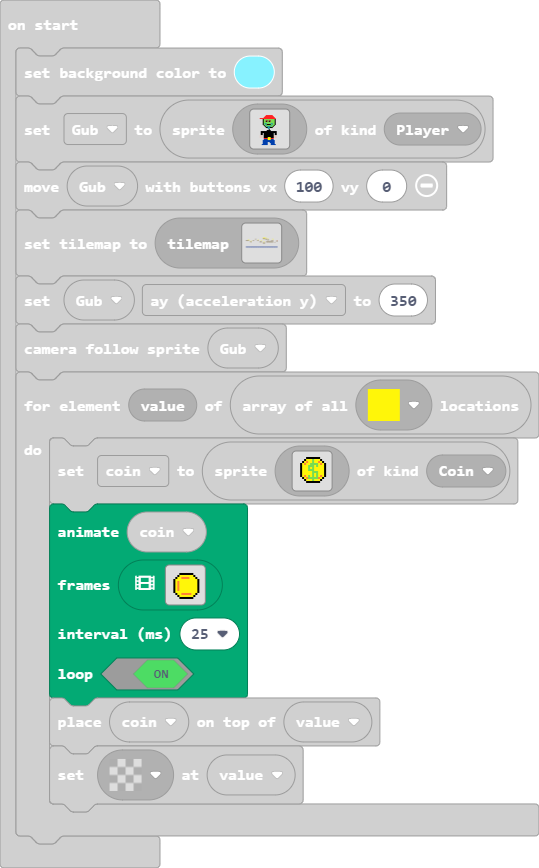
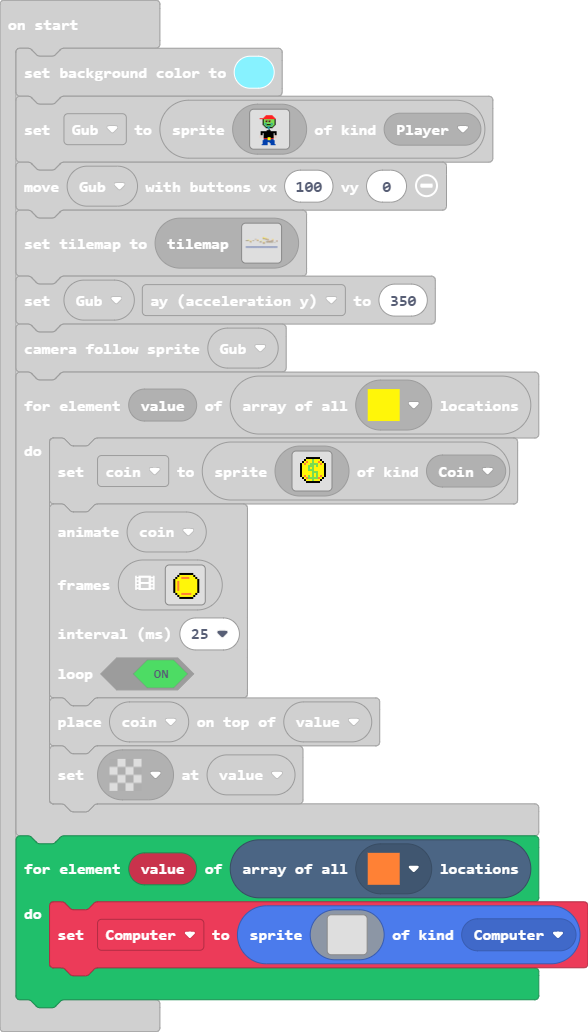
Update main.blocks, main.ts, tilemap.g.jres, tilemap.g.ts

diff --git a/tilemap.g.ts b/tilemap.g.ts
@@ -10,6 +10,8 @@ namespace myTiles {
     export const tile3 = image.ofBuffer(hex``);
     //% fixedInstance jres blockIdentity=images._tile
     export const tile4 = image.ofBuffer(hex``);
+    //% fixedInstance jres blockIdentity=images._tile
+    export const tile5 = image.ofBuffer(hex``);
 
     helpers._registerFactory("tilemap", function(name: string) {
         switch(helpers.stringTrim(name)) {
@@ -52,7 +54,7 @@ namespace myTiles {
 . . . . . . . . . . . . . . . . 
 `, [myTiles.transparency16], TileScale.Sixteen);
             case "level1":
-            case "level1":return tiles.createTilemap(hex`320010000000000000000000000000000000000000000000000000000000000000000000000000000000000000000000000000000000000000000000000000000000000000000000000000000000000000040404000400000000000000000000000000000000000000000000000000000000000000000000000000000000000000000001010100000000040000000000000000000000000000000000000000000000000000000000000100000000000000000000000000000001010000000000000000000400000000000000000000000400000000000000000000000000000400000000000000000000000000000101000000000000000000000000000001010101010000000000000101000000000001010000000004000000000000000000000000000001000101000000000000030000000000000000040000000000000000000000000000000000000000000000000000000000000000000000000000000101000000000000000101000000000000000000000000000101010000000400000001010101010101010101010000000000000000000000000000000000000000000000000000000000000000000000000000000000000000000000000000000001000000000000000000000000000000000000000000000000000000000000000101010000000000000000000000000000000000000000000000000000000000000000000000000000000000000000000000000000000000000000000000000000000000000000000000000000000000000000000000000000000000000000000000000000000000000000000000000000000000000000000000000000000000000000000000000000000000000000000000000000000000000000000000000000000000000000000000000000000000000000000000000000000000000000000000000000000000000000000000000000000000000000000000000000000000000000000000000000000000000000000000000000000000000000000000000000000000000000000000000000000000000202020202020202020202020202020202020202020202020202020202020202020202020202020202020202020202020202`, img`
+            case "level1":return tiles.createTilemap(hex`320010000000000000000000000000000000000000000000000000000000000500000000000000000000000000000000000000000000000000000000000000000000000000000000000000000000000000040404000400000000000000000000000000000000000000000000000000000000000000000000000000000000000000000001010100050000040000000000000000000000000000000000000000000000000000000000000100000000000000000000000000000001010005000000000000000400000000000000000000000400000000000000000000000000050400000000000000000000000000000101000000000000050000000000000001010101010000000000000101000000000001010000000004000000000000000000000000000001000101000000000000030000000000000005040000000000000000000000000000000000000000000000000000000005000000000000000000000101000000000000000101000000000000000000000000000101010000000400000001010101010101010101010000000000000000000000000000000000000000000000000000000000000000000000050000000000000000000000000000000001000000000000000000000000000000000000000000000000000000000000000101010000000000000000000000000000000000000000000000000000000000000000000000000000000000000000000000000000000000000000000000000000000000000000000000000000000000000000000000000000000000000000000000000000000000000000000000000000000000000000000000000000000000000000000000000000000000000000000000000000000000000000000000000000000000000000000000000000000000000000000000000000000000000000000000000000000000000000000000000000000000000000000000000000000000000000000000000000000000000000000000000000000000000000000000000000000000000000000000000000000000000202020202020202020202020202020202020202020202020202020202020202020202020202020202020202020202020202`, img`
 ..................................................
 ..................................................
 ...........................222....................
@@ -69,7 +71,7 @@ namespace myTiles {
 ..................................................
 ..................................................
 ..................................................
-`, [myTiles.transparency16,myTiles.tile1,myTiles.tile2,myTiles.tile3,myTiles.tile4], TileScale.Sixteen);
+`, [myTiles.transparency16,myTiles.tile1,myTiles.tile2,myTiles.tile3,myTiles.tile4,myTiles.tile5], TileScale.Sixteen);
         }
         return null;
     })
@@ -85,6 +87,8 @@ namespace myTiles {
             case "tile3":return tile3;
             case "myTile2":
             case "tile4":return tile4;
+            case "myTile3":
+            case "tile5":return tile5;
         }
         return null;
     })

diff --git a/main.ts b/main.ts
@@ -1,5 +1,6 @@
 namespace SpriteKind {
     export const Coin = SpriteKind.create()
+    export const Computer = SpriteKind.create()
 }
 scene.onOverlapTile(SpriteKind.Player, assets.tile`myTile0`, function (sprite, location) {
     game.gameOver(false)
@@ -18,6 +19,7 @@ controller.A.onEvent(ControllerButtonEvent.Pressed, function () {
         Gub.vy = -160
     }
 })
+let Computer: Sprite = null
 let coin: Sprite = null
 let Gub: Sprite = null
 scene.setBackgroundColor(9)
@@ -189,4 +191,24 @@ for (let value of tiles.getTilesByType(assets.tile`myTile2`)) {
     )
     tiles.placeOnTile(coin, value)
     tiles.setTileAt(value, assets.tile`transparency16`)
+}
+for (let value of tiles.getTilesByType(assets.tile`myTile3`)) {
+    Computer = sprites.create(img`
+        . . . . . . . . . . . . . . . . 
+        . . . . . . . . . . . . . . . . 
+        . . . . . . . . . . . . . . . . 
+        . . . . . . . . . . . . . . . . 
+        . . . . . . . . . . . . . . . . 
+        . . . . . . . . . . . . . . . . 
+        . . . . . . . . . . . . . . . . 
+        . . . . . . . . . . . . . . . . 
+        . . . . . . . . . . . . . . . . 
+        . . . . . . . . . . . . . . . . 
+        . . . . . . . . . . . . . . . . 
+        . . . . . . . . . . . . . . . . 
+        . . . . . . . . . . . . . . . . 
+        . . . . . . . . . . . . . . . . 
+        . . . . . . . . . . . . . . . . 
+        . . . . . . . . . . . . . . . . 
+        `, SpriteKind.Computer)
 }
